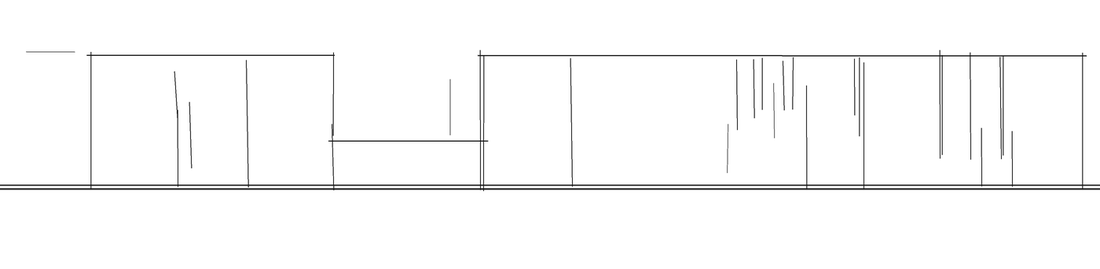
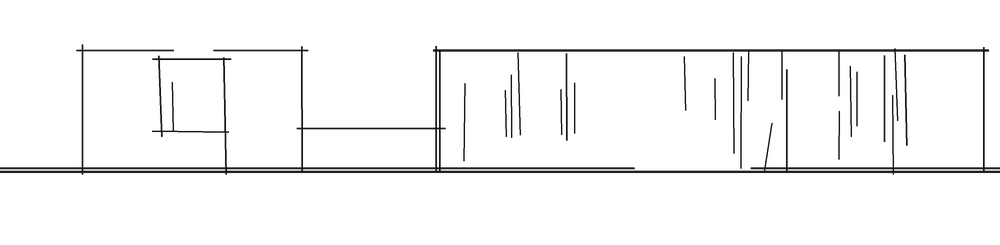
Section cut: bolder tracings, larger drawings, quiet text opening

diff --git a/zh/index.html b/zh/index.html
@@ -21,20 +21,17 @@
   <nav><span class="tabs"><a href="work.html" class="u">作品</a><a href="about.html" class="u">关于</a><a href="cv.html" class="u">简历</a></span><a class="lang" href="../index.html">EN</a></nav>
 </header>
 
-<section class="hero">
-  <div class="frame"><img src="../img/the-ark/img_00_cover-s.jpg" srcset="../img/the-ark/img_00_cover-s.jpg 1100w, ../img/the-ark/img_00_cover.jpg 2600w" sizes="(max-width: 800px) 100vw, 100vw" width="3000" height="1687" alt=""></div>
-  <div class="grid cap"><span><a href="the-ark.html">方舟</a> <span class="mute">2019</span></span><p>洛杉矶的建筑设计师。住宅和小型商业项目全程由我负责；我最在意的，是建成之后人在里面怎么生活。</p></div>
-</section>
+<section class="grid cut-intro"><p class="lede">洛杉矶的建筑设计师。住宅和小型商业项目全程由我负责；我最在意的，是建成之后人在里面怎么生活。</p><p class="caps mute hint">光标划过线稿，剖开看原图</p></section>
 
-<section class="field" style="--h:136.35vw">
-  <a class="mark cut" style="--s:1.225;--z:1;--x:-34.02vw;--y:0.00vw" href="798-artist-district.html"><span class="cv" style="aspect-ratio:1.5005"><img class="ph" src="../img/798-artist-district/img_00_cover-s.jpg" alt="" loading="lazy"><img class="ink" src="../img/ink/798-artist-district.png" alt="798 艺术家生活集" loading="lazy"><span class="sl" aria-hidden="true"><i>A</i><i>A</i></span></span><span class="cap">798 艺术家生活集 <span class="mute">2018</span></span></a>
-  <a class="mark cut" style="--s:1.225;--z:1;--x:8.98vw;--y:7.00vw" href="downstairs-bazaar.html"><span class="cv" style="aspect-ratio:1.5005"><img class="ph" src="../img/downstairs-bazaar/img_00_cover-s.jpg" alt="" loading="lazy"><img class="ink" src="../img/ink/downstairs-bazaar.png" alt="楼下生活集" loading="lazy"><span class="sl" aria-hidden="true"><i>A</i><i>A</i></span></span><span class="cap">楼下生活集 <span class="mute">2020</span></span></a>
-  <a class="mark cut" style="--s:1.333;--z:1;--x:-10.00vw;--y:33.58vw" href="seedlings.html"><span class="cv" style="aspect-ratio:1.7766"><img class="ph" src="../img/seedlings/img_00_cover-s.jpg" alt="" loading="lazy"><img class="ink" src="../img/ink/seedlings.png" alt="新绿幼儿园" loading="lazy"><span class="sl" aria-hidden="true"><i>A</i><i>A</i></span></span><span class="cap">新绿幼儿园 <span class="mute">2018</span></span></a>
-  <a class="mark cut" style="--s:1.334;--z:1;--x:-32.00vw;--y:57.01vw" href="river-lantern.html"><span class="cv" style="aspect-ratio:1.7789"><img class="ph" src="../img/river-lantern/img_05_photo-s.jpg" alt="" loading="lazy"><img class="ink" src="../img/ink/river-lantern.png" alt="河灯" loading="lazy"><span class="sl" aria-hidden="true"><i>A</i><i>A</i></span></span><span class="cap">河灯 <span class="mute">2020</span></span></a>
-  <a class="mark cut" style="--s:1.155;--z:1;--x:10.61vw;--y:62.97vw" href="westfall-hillside-house.html"><span class="cv" style="aspect-ratio:1.3333"><img class="ph" src="../img/westfall-hillside-house/img_00_cover-s.jpg" alt="" loading="lazy"><img class="ink" src="../img/ink/westfall-hillside-house.png" alt="西崖山地别墅" loading="lazy"><span class="sl" aria-hidden="true"><i>A</i><i>A</i></span></span><span class="cap">西崖山地别墅 <span class="mute">2025</span></span></a>
-  <a class="mark cut" style="--s:1.225;--z:1;--x:-13.52vw;--y:83.38vw" href="ashton-house-remodel.html"><span class="cv" style="aspect-ratio:1.5005"><img class="ph" src="../img/ashton-house-remodel/img_00_cover-s.jpg" alt="" loading="lazy"><img class="ink" src="../img/ink/ashton-house-remodel.png" alt="阿什顿街住宅翻新" loading="lazy"><span class="sl" aria-hidden="true"><i>A</i><i>A</i></span></span><span class="cap">阿什顿街住宅翻新 <span class="mute">2025</span></span></a>
-  <a class="mark cut" style="--s:2.023;--z:1;--x:-39.71vw;--y:117.56vw" href="pku-marxism-school-building.html"><span class="cv" style="aspect-ratio:4.0936"><img class="ph" src="../img/pku-teaching-building/dwg_south-elev-s.jpg" alt="" loading="lazy"><img class="ink" src="../img/ink/pku-teaching-building.png" alt="北京大学马克思主义学院教学楼" loading="lazy"><span class="sl" aria-hidden="true"><i>A</i><i>A</i></span></span><span class="cap">北京大学马克思主义学院教学楼 <span class="mute">2019</span></span></a>
-  <a class="mark cut" style="--s:1.225;--z:1;--x:14.48vw;--y:121.66vw" href="beck-corner-apartment.html"><span class="cv" style="aspect-ratio:1.5005"><img class="ph" src="../img/beck-corner-apartment/img_00_cover-s.jpg" alt="" loading="lazy"><img class="ink" src="../img/ink/beck-corner-apartment.png" alt="贝克街保障住房" loading="lazy"><span class="sl" aria-hidden="true"><i>A</i><i>A</i></span></span><span class="cap">贝克街保障住房 <span class="mute">2023–2025</span></span></a>
+<section class="field" style="--h:178.98vw">
+  <a class="mark cut" style="--s:1.224;--z:1;--x:-37.08vw;--y:0.00vw" href="798-artist-district.html"><span class="cv" style="aspect-ratio:1.4993"><img class="ph" src="../img/798-artist-district/img_00_cover-s.jpg" alt="" loading="lazy"><img class="ink" src="../img/ink/798-artist-district.png" alt="798 艺术家生活集" loading="lazy"><span class="sl" aria-hidden="true"><i>A</i><i>A</i></span></span><span class="cap">798 艺术家生活集 <span class="mute">2018</span></span></a>
+  <a class="mark cut" style="--s:1.224;--z:1;--x:5.92vw;--y:7.00vw" href="downstairs-bazaar.html"><span class="cv" style="aspect-ratio:1.4993"><img class="ph" src="../img/downstairs-bazaar/img_00_cover-s.jpg" alt="" loading="lazy"><img class="ink" src="../img/ink/downstairs-bazaar.png" alt="楼下生活集" loading="lazy"><span class="sl" aria-hidden="true"><i>A</i><i>A</i></span></span><span class="cap">楼下生活集 <span class="mute">2020</span></span></a>
+  <a class="mark cut" style="--s:1.334;--z:1;--x:-13.34vw;--y:42.51vw" href="seedlings.html"><span class="cv" style="aspect-ratio:1.7794"><img class="ph" src="../img/seedlings/img_00_cover-s.jpg" alt="" loading="lazy"><img class="ink" src="../img/ink/seedlings.png" alt="新绿幼儿园" loading="lazy"><span class="sl" aria-hidden="true"><i>A</i><i>A</i></span></span><span class="cap">新绿幼儿园 <span class="mute">2018</span></span></a>
+  <a class="mark cut" style="--s:1.334;--z:1;--x:-35.34vw;--y:75.67vw" href="river-lantern.html"><span class="cv" style="aspect-ratio:1.7794"><img class="ph" src="../img/river-lantern/img_05_photo-s.jpg" alt="" loading="lazy"><img class="ink" src="../img/ink/river-lantern.png" alt="河灯" loading="lazy"><span class="sl" aria-hidden="true"><i>A</i><i>A</i></span></span><span class="cap">河灯 <span class="mute">2020</span></span></a>
+  <a class="mark cut" style="--s:1.155;--z:1;--x:7.72vw;--y:81.33vw" href="westfall-hillside-house.html"><span class="cv" style="aspect-ratio:1.3333"><img class="ph" src="../img/westfall-hillside-house/img_00_cover-s.jpg" alt="" loading="lazy"><img class="ink" src="../img/ink/westfall-hillside-house.png" alt="西崖山地别墅" loading="lazy"><span class="sl" aria-hidden="true"><i>A</i><i>A</i></span></span><span class="cap">西崖山地别墅 <span class="mute">2025</span></span></a>
+  <a class="mark cut" style="--s:1.224;--z:1;--x:-16.58vw;--y:111.92vw" href="ashton-house-remodel.html"><span class="cv" style="aspect-ratio:1.4993"><img class="ph" src="../img/ashton-house-remodel/img_00_cover-s.jpg" alt="" loading="lazy"><img class="ink" src="../img/ink/ashton-house-remodel.png" alt="阿什顿街住宅翻新" loading="lazy"><span class="sl" aria-hidden="true"><i>A</i><i>A</i></span></span><span class="cap">阿什顿街住宅翻新 <span class="mute">2025</span></span></a>
+  <a class="mark cut" style="--s:2.020;--z:1;--x:-44.73vw;--y:156.90vw" href="pku-marxism-school-building.html"><span class="cv" style="aspect-ratio:4.0816"><img class="ph" src="../img/pku-teaching-building/dwg_south-elev-s.jpg" alt="" loading="lazy"><img class="ink" src="../img/ink/pku-teaching-building.png" alt="北京大学马克思主义学院教学楼" loading="lazy"><span class="sl" aria-hidden="true"><i>A</i><i>A</i></span></span><span class="cap">北京大学马克思主义学院教学楼 <span class="mute">2019</span></span></a>
+  <a class="mark cut" style="--s:1.224;--z:1;--x:11.42vw;--y:160.20vw" href="beck-corner-apartment.html"><span class="cv" style="aspect-ratio:1.4993"><img class="ph" src="../img/beck-corner-apartment/img_00_cover-s.jpg" alt="" loading="lazy"><img class="ink" src="../img/ink/beck-corner-apartment.png" alt="贝克街保障住房" loading="lazy"><span class="sl" aria-hidden="true"><i>A</i><i>A</i></span></span><span class="cap">贝克街保障住房 <span class="mute">2023–2025</span></span></a>
 </section>
 
 <section class="grid closing">

diff --git a/index.html b/index.html
@@ -21,20 +21,17 @@
   <nav><span class="tabs"><a href="work.html" class="u">Work</a><a href="about.html" class="u">About</a><a href="cv.html" class="u">CV</a></span><a class="lang" href="zh/index.html">CN</a></nav>
 </header>
 
-<section class="hero">
-  <div class="frame"><img src="img/the-ark/img_00_cover-s.jpg" srcset="img/the-ark/img_00_cover-s.jpg 1100w, img/the-ark/img_00_cover.jpg 2600w" sizes="(max-width: 800px) 100vw, 100vw" width="3000" height="1687" alt=""></div>
-  <div class="grid cap"><span><a href="the-ark.html">The Ark</a> <span class="mute">2019</span></span><p>Architectural designer in Los Angeles. I run residential and small commercial projects end to end and care most about how people actually live in what gets built.</p></div>
-</section>
+<section class="grid cut-intro"><p class="lede">Architectural designer in Los Angeles. I run residential and small commercial projects end to end and care most about how people actually live in what gets built.</p><p class="caps mute hint">Move across a drawing to cut it</p></section>
 
-<section class="field" style="--h:136.35vw">
-  <a class="mark cut" style="--s:1.225;--z:1;--x:-34.02vw;--y:0.00vw" href="798-artist-district.html"><span class="cv" style="aspect-ratio:1.5005"><img class="ph" src="img/798-artist-district/img_00_cover-s.jpg" alt="" loading="lazy"><img class="ink" src="img/ink/798-artist-district.png" alt="The Collage Community" loading="lazy"><span class="sl" aria-hidden="true"><i>A</i><i>A</i></span></span><span class="cap">The Collage Community <span class="mute">2018</span></span></a>
-  <a class="mark cut" style="--s:1.225;--z:1;--x:8.98vw;--y:7.00vw" href="downstairs-bazaar.html"><span class="cv" style="aspect-ratio:1.5005"><img class="ph" src="img/downstairs-bazaar/img_00_cover-s.jpg" alt="" loading="lazy"><img class="ink" src="img/ink/downstairs-bazaar.png" alt="Downstairs Bazaar" loading="lazy"><span class="sl" aria-hidden="true"><i>A</i><i>A</i></span></span><span class="cap">Downstairs Bazaar <span class="mute">2020</span></span></a>
-  <a class="mark cut" style="--s:1.333;--z:1;--x:-10.00vw;--y:33.58vw" href="seedlings.html"><span class="cv" style="aspect-ratio:1.7766"><img class="ph" src="img/seedlings/img_00_cover-s.jpg" alt="" loading="lazy"><img class="ink" src="img/ink/seedlings.png" alt="Seedlings" loading="lazy"><span class="sl" aria-hidden="true"><i>A</i><i>A</i></span></span><span class="cap">Seedlings <span class="mute">2018</span></span></a>
-  <a class="mark cut" style="--s:1.334;--z:1;--x:-32.00vw;--y:57.01vw" href="river-lantern.html"><span class="cv" style="aspect-ratio:1.7789"><img class="ph" src="img/river-lantern/img_05_photo-s.jpg" alt="" loading="lazy"><img class="ink" src="img/ink/river-lantern.png" alt="River Lantern" loading="lazy"><span class="sl" aria-hidden="true"><i>A</i><i>A</i></span></span><span class="cap">River Lantern <span class="mute">2020</span></span></a>
-  <a class="mark cut" style="--s:1.155;--z:1;--x:10.61vw;--y:62.97vw" href="westfall-hillside-house.html"><span class="cv" style="aspect-ratio:1.3333"><img class="ph" src="img/westfall-hillside-house/img_00_cover-s.jpg" alt="" loading="lazy"><img class="ink" src="img/ink/westfall-hillside-house.png" alt="Westfall Hillside House" loading="lazy"><span class="sl" aria-hidden="true"><i>A</i><i>A</i></span></span><span class="cap">Westfall Hillside House <span class="mute">2025</span></span></a>
-  <a class="mark cut" style="--s:1.225;--z:1;--x:-13.52vw;--y:83.38vw" href="ashton-house-remodel.html"><span class="cv" style="aspect-ratio:1.5005"><img class="ph" src="img/ashton-house-remodel/img_00_cover-s.jpg" alt="" loading="lazy"><img class="ink" src="img/ink/ashton-house-remodel.png" alt="Ashton House Remodel" loading="lazy"><span class="sl" aria-hidden="true"><i>A</i><i>A</i></span></span><span class="cap">Ashton House Remodel <span class="mute">2025</span></span></a>
-  <a class="mark cut" style="--s:2.023;--z:1;--x:-39.71vw;--y:117.56vw" href="pku-marxism-school-building.html"><span class="cv" style="aspect-ratio:4.0936"><img class="ph" src="img/pku-teaching-building/dwg_south-elev-s.jpg" alt="" loading="lazy"><img class="ink" src="img/ink/pku-teaching-building.png" alt="Marxism School Building, PKU" loading="lazy"><span class="sl" aria-hidden="true"><i>A</i><i>A</i></span></span><span class="cap">Marxism School Building, PKU <span class="mute">2019</span></span></a>
-  <a class="mark cut" style="--s:1.225;--z:1;--x:14.48vw;--y:121.66vw" href="beck-corner-apartment.html"><span class="cv" style="aspect-ratio:1.5005"><img class="ph" src="img/beck-corner-apartment/img_00_cover-s.jpg" alt="" loading="lazy"><img class="ink" src="img/ink/beck-corner-apartment.png" alt="Beck Corner Apartment" loading="lazy"><span class="sl" aria-hidden="true"><i>A</i><i>A</i></span></span><span class="cap">Beck Corner Apartment <span class="mute">2023–2025</span></span></a>
+<section class="field" style="--h:178.98vw">
+  <a class="mark cut" style="--s:1.224;--z:1;--x:-37.08vw;--y:0.00vw" href="798-artist-district.html"><span class="cv" style="aspect-ratio:1.4993"><img class="ph" src="img/798-artist-district/img_00_cover-s.jpg" alt="" loading="lazy"><img class="ink" src="img/ink/798-artist-district.png" alt="The Collage Community" loading="lazy"><span class="sl" aria-hidden="true"><i>A</i><i>A</i></span></span><span class="cap">The Collage Community <span class="mute">2018</span></span></a>
+  <a class="mark cut" style="--s:1.224;--z:1;--x:5.92vw;--y:7.00vw" href="downstairs-bazaar.html"><span class="cv" style="aspect-ratio:1.4993"><img class="ph" src="img/downstairs-bazaar/img_00_cover-s.jpg" alt="" loading="lazy"><img class="ink" src="img/ink/downstairs-bazaar.png" alt="Downstairs Bazaar" loading="lazy"><span class="sl" aria-hidden="true"><i>A</i><i>A</i></span></span><span class="cap">Downstairs Bazaar <span class="mute">2020</span></span></a>
+  <a class="mark cut" style="--s:1.334;--z:1;--x:-13.34vw;--y:42.51vw" href="seedlings.html"><span class="cv" style="aspect-ratio:1.7794"><img class="ph" src="img/seedlings/img_00_cover-s.jpg" alt="" loading="lazy"><img class="ink" src="img/ink/seedlings.png" alt="Seedlings" loading="lazy"><span class="sl" aria-hidden="true"><i>A</i><i>A</i></span></span><span class="cap">Seedlings <span class="mute">2018</span></span></a>
+  <a class="mark cut" style="--s:1.334;--z:1;--x:-35.34vw;--y:75.67vw" href="river-lantern.html"><span class="cv" style="aspect-ratio:1.7794"><img class="ph" src="img/river-lantern/img_05_photo-s.jpg" alt="" loading="lazy"><img class="ink" src="img/ink/river-lantern.png" alt="River Lantern" loading="lazy"><span class="sl" aria-hidden="true"><i>A</i><i>A</i></span></span><span class="cap">River Lantern <span class="mute">2020</span></span></a>
+  <a class="mark cut" style="--s:1.155;--z:1;--x:7.72vw;--y:81.33vw" href="westfall-hillside-house.html"><span class="cv" style="aspect-ratio:1.3333"><img class="ph" src="img/westfall-hillside-house/img_00_cover-s.jpg" alt="" loading="lazy"><img class="ink" src="img/ink/westfall-hillside-house.png" alt="Westfall Hillside House" loading="lazy"><span class="sl" aria-hidden="true"><i>A</i><i>A</i></span></span><span class="cap">Westfall Hillside House <span class="mute">2025</span></span></a>
+  <a class="mark cut" style="--s:1.224;--z:1;--x:-16.58vw;--y:111.92vw" href="ashton-house-remodel.html"><span class="cv" style="aspect-ratio:1.4993"><img class="ph" src="img/ashton-house-remodel/img_00_cover-s.jpg" alt="" loading="lazy"><img class="ink" src="img/ink/ashton-house-remodel.png" alt="Ashton House Remodel" loading="lazy"><span class="sl" aria-hidden="true"><i>A</i><i>A</i></span></span><span class="cap">Ashton House Remodel <span class="mute">2025</span></span></a>
+  <a class="mark cut" style="--s:2.020;--z:1;--x:-44.73vw;--y:156.90vw" href="pku-marxism-school-building.html"><span class="cv" style="aspect-ratio:4.0816"><img class="ph" src="img/pku-teaching-building/dwg_south-elev-s.jpg" alt="" loading="lazy"><img class="ink" src="img/ink/pku-teaching-building.png" alt="Marxism School Building, PKU" loading="lazy"><span class="sl" aria-hidden="true"><i>A</i><i>A</i></span></span><span class="cap">Marxism School Building, PKU <span class="mute">2019</span></span></a>
+  <a class="mark cut" style="--s:1.224;--z:1;--x:11.42vw;--y:160.20vw" href="beck-corner-apartment.html"><span class="cv" style="aspect-ratio:1.4993"><img class="ph" src="img/beck-corner-apartment/img_00_cover-s.jpg" alt="" loading="lazy"><img class="ink" src="img/ink/beck-corner-apartment.png" alt="Beck Corner Apartment" loading="lazy"><span class="sl" aria-hidden="true"><i>A</i><i>A</i></span></span><span class="cap">Beck Corner Apartment <span class="mute">2023–2025</span></span></a>
 </section>
 
 <section class="grid closing">

diff --git a/src/style.css b/src/style.css
@@ -272,3 +272,9 @@ h1, h2 { font: inherit; margin: 0; }
   .mark.cut .cap { opacity: 1; padding-top: 22px; }
   .mark.cut .mob { display: none; }
 }
+.cut-intro { padding-top: 16vh; padding-bottom: 2vh; }
+.cut-intro .lede { grid-column: 1 / 8; font-size: clamp(22px, 2.3vw, 34px); line-height: 1.25; letter-spacing: -.01em; margin: 0; }
+.cut-intro .hint { grid-column: 1 / 8; margin: 28px 0 0; }
+/* 剖切线就是光标：在线稿上时把十字光标藏起来 */
+.has-xh .xh.on-cut { opacity: 0; }
+@media (max-width: 800px) { .cut-intro .lede, .cut-intro .hint { grid-column: 1 / -1; } .cut-intro { padding-top: 6vh; } }

diff --git a/style.css b/style.css
@@ -272,3 +272,9 @@ h1, h2 { font: inherit; margin: 0; }
   .mark.cut .cap { opacity: 1; padding-top: 22px; }
   .mark.cut .mob { display: none; }
 }
+.cut-intro { padding-top: 16vh; padding-bottom: 2vh; }
+.cut-intro .lede { grid-column: 1 / 8; font-size: clamp(22px, 2.3vw, 34px); line-height: 1.25; letter-spacing: -.01em; margin: 0; }
+.cut-intro .hint { grid-column: 1 / 8; margin: 28px 0 0; }
+/* 剖切线就是光标：在线稿上时把十字光标藏起来 */
+.has-xh .xh.on-cut { opacity: 0; }
+@media (max-width: 800px) { .cut-intro .lede, .cut-intro .hint { grid-column: 1 / -1; } .cut-intro { padding-top: 6vh; } }

diff --git a/site.js b/site.js
@@ -9,6 +9,7 @@
     document.documentElement.classList.add('has-xh');
     xh.style.transform = `translate(${e.clientX}px, ${e.clientY}px)`;
     xh.classList.toggle('wide', e.target.tagName === 'IMG' || e.target.tagName === 'VIDEO');
+    xh.classList.toggle('on-cut', !!(e.target.closest && e.target.closest('.mark.cut')));
   });
   document.addEventListener('mouseleave', () => document.documentElement.classList.remove('has-xh'));
 })();

diff --git a/src/site.js b/src/site.js
@@ -9,6 +9,7 @@
     document.documentElement.classList.add('has-xh');
     xh.style.transform = `translate(${e.clientX}px, ${e.clientY}px)`;
     xh.classList.toggle('wide', e.target.tagName === 'IMG' || e.target.tagName === 'VIDEO');
+    xh.classList.toggle('on-cut', !!(e.target.closest && e.target.closest('.mark.cut')));
   });
   document.addEventListener('mouseleave', () => document.documentElement.classList.remove('has-xh'));
 })();

diff --git a/src/ink.py b/src/ink.py
@@ -12,7 +12,7 @@ from PIL import Image, ImageDraw
 
 INK = (22, 22, 22)
 
-def trace(src, out, W=1400, min_len=.028, hatch=True, seed=3, curves=False):
+def trace(src, out, W=1000, min_len=.028, hatch=True, seed=3, curves=False):
     rng = np.random.default_rng(seed)
     im = Image.open(src).convert('RGB')
     w0, h0 = im.size
@@ -62,7 +62,7 @@ def trace(src, out, W=1400, min_len=.028, hatch=True, seed=3, curves=False):
                     dth = abs(b[0] - th); dth = min(dth, math.pi - dth)
                     if dth > math.radians(1.8): continue
                     r0 = b[1] * nx + b[2] * ny; r1 = b[3] * nx + b[4] * ny
-                    if abs(r0 - rho) > 2.6 or abs(r1 - rho) > 2.6: continue
+                    if abs(r0 - rho) > 2 or abs(r1 - rho) > 2: continue
                     q = [b[1] * ux + b[2] * uy, b[3] * ux + b[4] * uy]
                     if min(q) > t1 + gap or max(q) < t0 - gap: continue
                     t0, t1 = min(t0, min(q)), max(t1, max(q)); used[j] = True; grp.append(b); changed = True
@@ -101,10 +101,10 @@ def trace(src, out, W=1400, min_len=.028, hatch=True, seed=3, curves=False):
     Lmax = max([sg[4] for sg in segs] or [1])
     for x0, y0, x1, y1, L, c in segs:
         ux, uy = (x1 - x0) / L, (y1 - y0) / L
-        o0 = 3 + rng.random() * 7; o1 = 3 + rng.random() * 7   # 交点出头
+        o0 = 3 + rng.random() * 6; o1 = 3 + rng.random() * 6   # 交点出头
         X0, Y0 = x0 - ux * o0, y0 - uy * o0
         X1, Y1 = x1 + ux * o1, y1 + uy * o1
-        wgt = .7 + 1.3 * min(1, (L / Lmax) ** .5 * min(1, c / 60))
+        wgt = 1.1 + 1.6 * min(1, (L / Lmax) ** .5 * min(1, c / 60))
         d.line([(X0 * SS, Y0 * SS), (X1 * SS, Y1 * SS)], fill=255, width=max(1, round(wgt * SS)))
     if curves:
         # 曲面项目：长的、顺的轮廓线，平滑后一笔画出
@@ -123,7 +123,7 @@ def trace(src, out, W=1400, min_len=.028, hatch=True, seed=3, curves=False):
                 ker = np.ones(k) / k
                 pts = np.stack([np.convolve(pts[:, i], ker, mode='valid') for i in (0, 1)], 1)
             pts = cv2.approxPolyDP(np.ascontiguousarray(pts, dtype=np.float32).reshape(-1, 1, 2), 1.2, False)[:, 0, :]
-            d.line([(float(x) * SS, float(y) * SS) for x, y in pts], fill=235, width=max(1, round(.9 * SS)), joint='curve')
+            d.line([(float(x) * SS, float(y) * SS) for x, y in pts], fill=235, width=max(1, round(1.3 * SS)), joint='curve')
     if hatch:
         # 最暗的大块区域里，45° 平行排线（克制）
         # 只在大块、平整（低纹理）的暗面里排线：树和草不排
@@ -136,7 +136,7 @@ def trace(src, out, W=1400, min_len=.028, hatch=True, seed=3, curves=False):
         hm = Image.new('L', (W * SS, H * SS), 0); hd = ImageDraw.Draw(hm)
         step = 7
         for k in range(-H, W, step):
-            hd.line([(k * SS, H * SS), ((k + H) * SS, 0)], fill=255, width=SS)
+            hd.line([(k * SS, H * SS), ((k + H) * SS, 0)], fill=255, width=round(1.1 * SS))
         mask = Image.fromarray(dark * 255).resize((W * SS, H * SS), Image.NEAREST)
         hatch_img = Image.fromarray((np.asarray(hm) * (np.asarray(mask) > 0) * .55).astype(np.uint8))
         cv = Image.fromarray(np.maximum(np.asarray(cv), np.asarray(hatch_img)))

diff --git a/build.py b/build.py
@@ -219,7 +219,7 @@ def ink_of(p):
         w, h = im.size
         if not (os.path.isfile(dst) and os.path.getmtime(dst) >= os.path.getmtime(src)):
             os.makedirs(os.path.dirname(dst), exist_ok=True)
-            im.resize((1100, round(1100 * h / w)), Image.LANCZOS).save(dst, optimize=True)
+            im.save(dst, optimize=True)
     return {'ink': dst[len(OUT) + 1:], 'photo': asset(INK_META[folder]), 'ar': w / h}
 
 def home_layout(items):
@@ -250,17 +250,14 @@ def home(lang):
     hp = next(p for p in PROJECTS if p['slug'] == HERO_PROJECT)
     cap = f'<span><a href="{hp["slug"]}.html">{E(T(hp["title"], lang))}</a> <span class="mute">{year_of(hp)}</span></span>'
     intro = f'<p>{E(T(CV["intro"], lang))}</p>'
-    if os.path.isfile(HERO_VIDEO):
-        os.makedirs(f'{OUT}/img', exist_ok=True); shutil.copyfile(HERO_VIDEO, f'{OUT}/img/home.mp4')
-        media = f'<video src="{r}img/home.mp4" poster="{r}{hp["_cover"]["full"]}" muted playsinline preload="auto"></video>'
-        hero = f'<div class="hero-scroll">\n<section class="hero">\n  <div class="frame">{media}</div>\n  <div class="grid cap">{cap}{intro}</div>\n</section>\n</div>'
-    else:
-        hero = f'<section class="hero">\n  <div class="frame">{img_tag(hp["_cover"], r, lazy=False)}</div>\n  <div class="grid cap">{cap}{intro}</div>\n</section>'
+    # 实验：剖切。开场不放彩色渲染图，只留一句介绍和一行提示
+    hero = (f'<section class="grid cut-intro"><p class="lede">{E(T(CV["intro"], lang))}</p>'
+            f'<p class="caps mute hint">{"Move across a drawing to cut it" if lang == "en" else "光标划过线稿，剖开看原图"}</p></section>')
     marks = []
     rank = lambda p: HOME_ORDER.index(p['slug']) if p['slug'] in HOME_ORDER else len(HOME_ORDER)
     shown = [(p, ink_of(p)) for p in sorted(PROJECTS, key=rank) if p['_any']]
     shown = [(p, k) for p, k in shown if k]
-    sizes = [(18 * k['ar'] ** .5, 18 * k['ar'] ** .5 / k['ar']) for p, k in shown]
+    sizes = [(23 * k['ar'] ** .5, 23 * k['ar'] ** .5 / k['ar']) for p, k in shown]
     pos, field_h = home_layout(sizes)
     for (p, k), (x, y) in zip(shown, pos):
         title = E(T(p['title'], lang))
